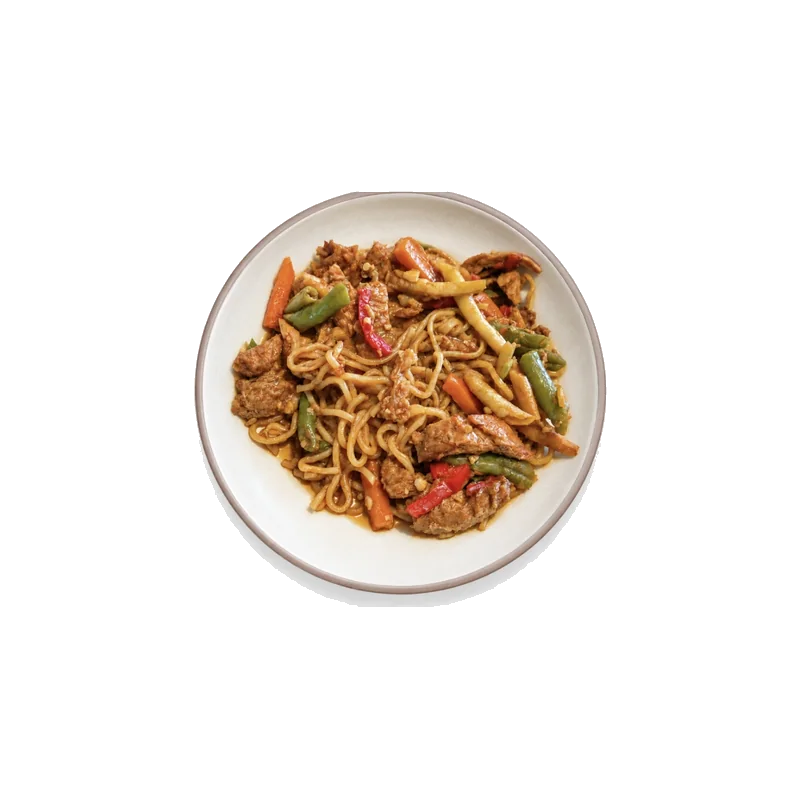
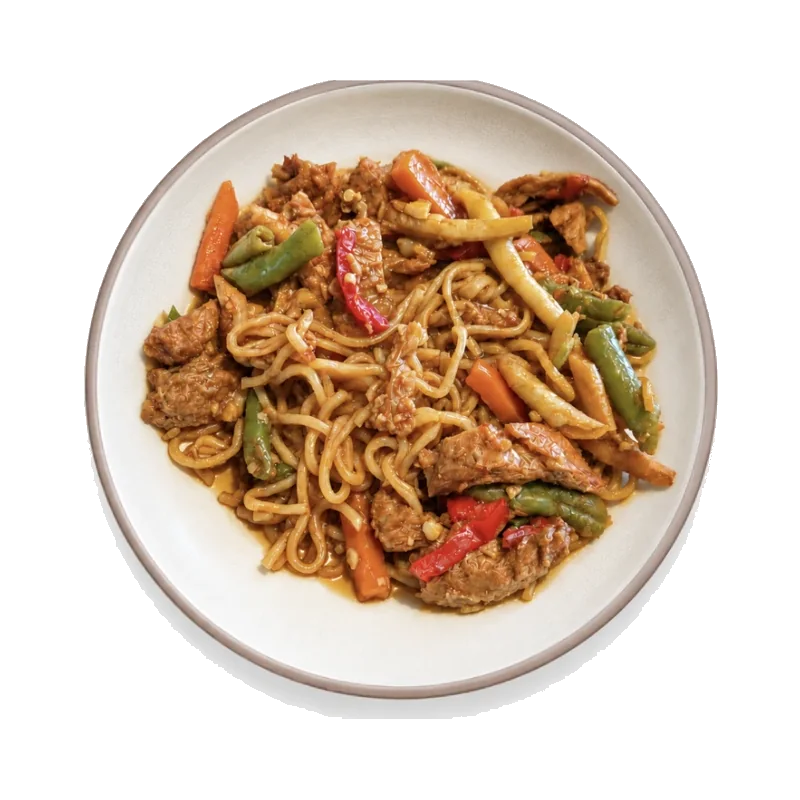
Fit the whole plate in the card rather than cropping it
The card frames a 4:3 window and the photographs are square, and it was
filling the frame — so a quarter of every image was being cropped away, top
and bottom, taking the near and far edges of the plate with it. Shrinking the
plate in the file only moved the problem: the margin was cropped instead.

The images are cut out of their background now, so there is nothing to bleed
to the frame edge and no reason to fill it. The whole square is fitted in and
the card shows around it, which is what a cut-out wants. ProductThumb takes
the choice as a prop, since a photograph that carries its own background
still wants to fill.

With nothing cropped the plate can have the frame back: it takes four fifths
of the square again rather than the half it needed to survive the crop.

diff --git a/components/BuyNow.tsx b/components/BuyNow.tsx
@@ -488,12 +488,20 @@ export function ProductThumb({
   sizes,
   className = "",
   rounded = "",
+  fit = "cover",
 }: {
   src: string | null;
   name: string;
   sizes: string;
   className?: string;
   rounded?: string;
+  /**
+   * "cover" fills the frame and crops whatever does not fit, which is right
+   * for a photograph that carries its own background. "contain" fits the
+   * whole image in and leaves the frame showing around it — which is what a
+   * cut-out wants, because the thing that would be cropped is the plate.
+   */
+  fit?: "cover" | "contain";
 }) {
   const [failed, setFailed] = useState(false);
 
@@ -515,7 +523,7 @@ export function ProductThumb({
       fill
       sizes={sizes}
       onError={() => setFailed(true)}
-      className={`object-cover ${className}`}
+      className={`${fit === "contain" ? "object-contain" : "object-cover"} ${className}`}
     />
   );
 }
@@ -557,11 +565,15 @@ function ProductCard({ product, index }: { product: ShopProduct; index: number }
         }`}
       >
         <div className="relative aspect-[4/3] overflow-hidden bg-cream">
+          {/* The meal photographs are cut out of their background, so the
+              whole square is fitted in rather than filled with — a 4:3 window
+              cropping a square would take the top and bottom off the plate. */}
           <ProductThumb
             src={product.image}
             name={product.name}
             sizes="(min-width: 1024px) 28vw, (min-width: 640px) 45vw, 90vw"
             className="text-5xl"
+            fit="contain"
           />
           {product.weight && (
             <span className="absolute left-4 top-4 rounded-full bg-paper/90 px-3 py-1 text-[0.7rem] font-bold uppercase tracking-[0.12em] text-green backdrop-blur-sm">
